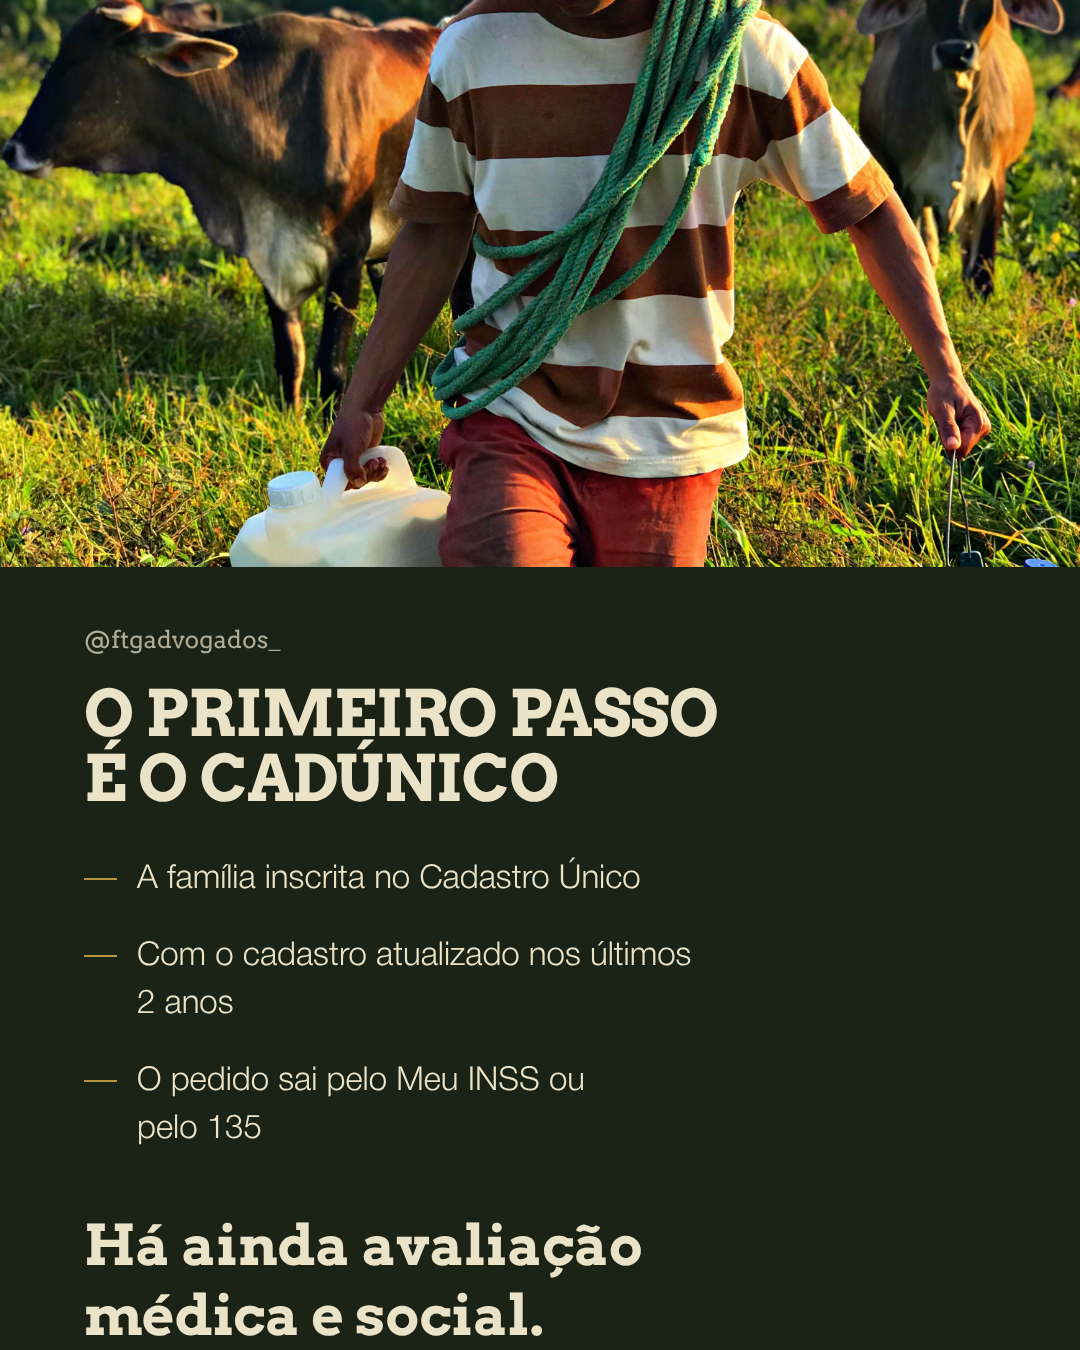
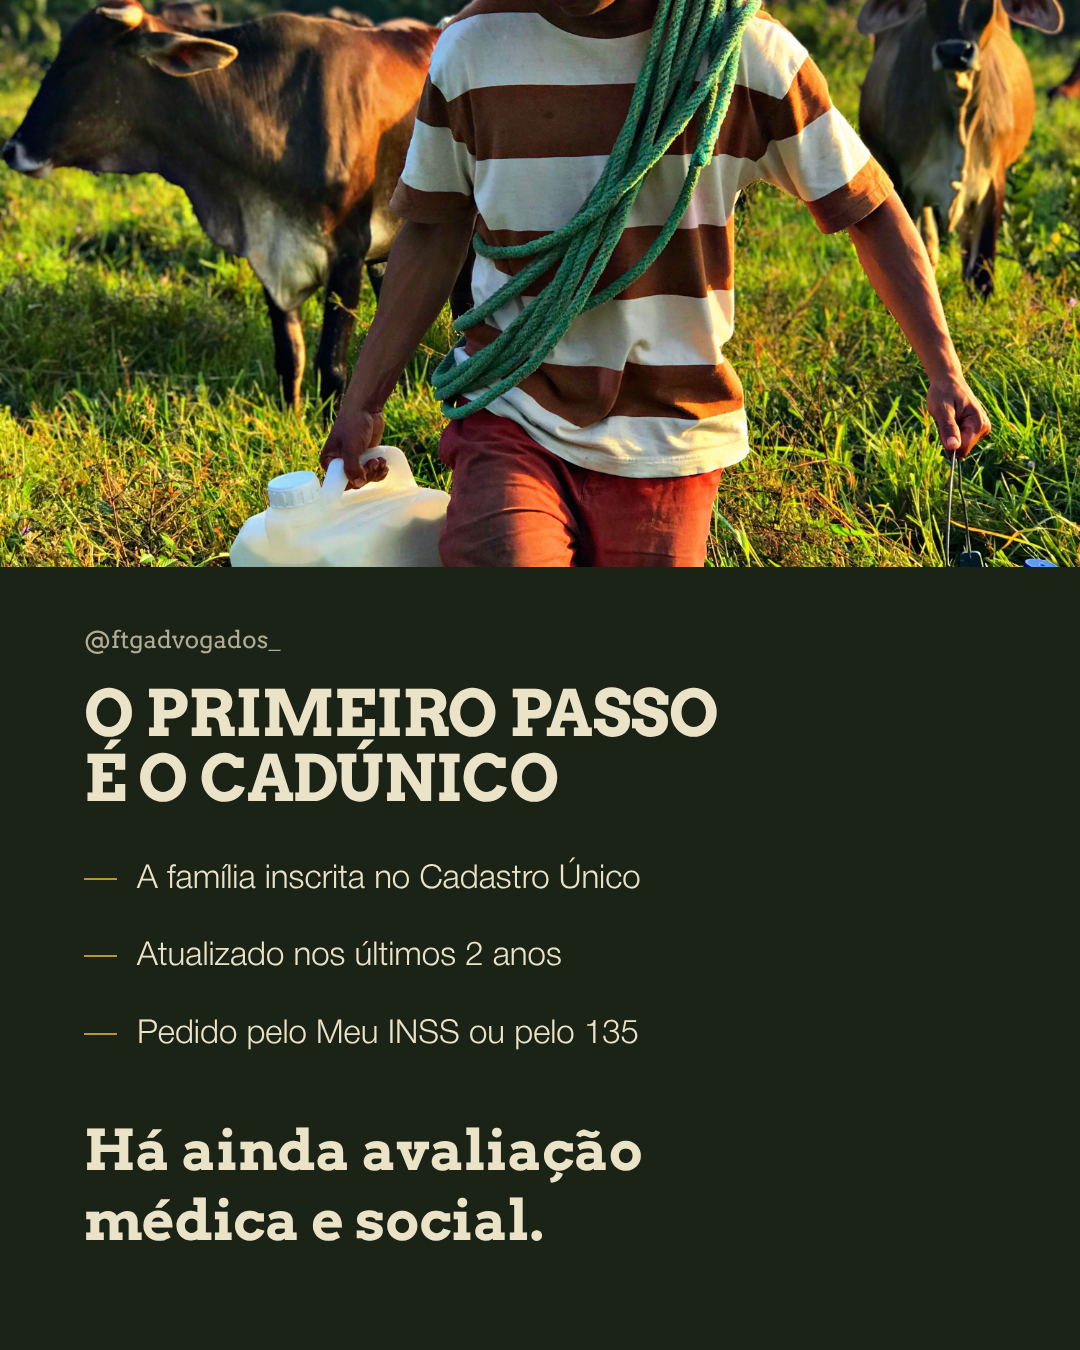
Conserta a tela 6 do BPC: remate caía pra fora da peça
Itens com 44 e 38 caracteres quebravam em duas linhas e empurravam o
remate pela borda. Entreguei assim por conferir em miniatura.

Claude-Session: https://claude.ai/code/session_01PNm9HeejNLCDTQ5J6fF2k9

Changed region(s): [[0.0611, 0.6844, 0.6417, 0.9956], [0.55, 0.7467, 0.5806, 0.7778]]

diff --git a/docs/gorayeb/diario.md b/docs/gorayeb/diario.md
@@ -746,3 +746,20 @@ conferência.
 Sobre as fotos: `img/` está no `.gitignore` e não existe neste clone. Quem tem o
 banco de imagens é a sessão que renderiza, não o repositório. Vale resolver isso,
 porque hoje nenhuma sessão nova consegue refazer uma arte sozinha.
+**05/11/2026 · duas falhas minhas, apontadas pela sessão de arte**
+
+**1. O carrossel do BPC foi entregue quebrado.** Na tela 6, lista com `meiaFoto`,
+o remate caía pra fora da peça. Dois itens tinham 44 e 38 caracteres e quebravam
+em duas linhas. Eu conferi a peça numa visão geral de miniaturas, onde isso não
+aparece, e entreguei assim. Corrigido: itens em 36, 29 e 32, todos numa linha.
+
+**A conferência de peça se faz no PNG em tamanho cheio, tela por tela.** Visão
+geral serve pra ver ritmo e cor, nunca pra validar texto.
+
+**2. `docs/gorayeb/img/` está no .gitignore e não existe no remoto.** São 57
+fotos e 123 MB que só vivem nesta máquina. As outras duas sessões não conseguem
+renderizar peça nenhuma com foto, que é quase toda peça.
+
+Pelo `_creditos.json`: 25 fotos são do banco do próprio cliente e podem publicar;
+27 vieram do Pinterest e a licença nunca foi conferida. Era por isso que a pasta
+estava ignorada. Decisão é do Victor.
